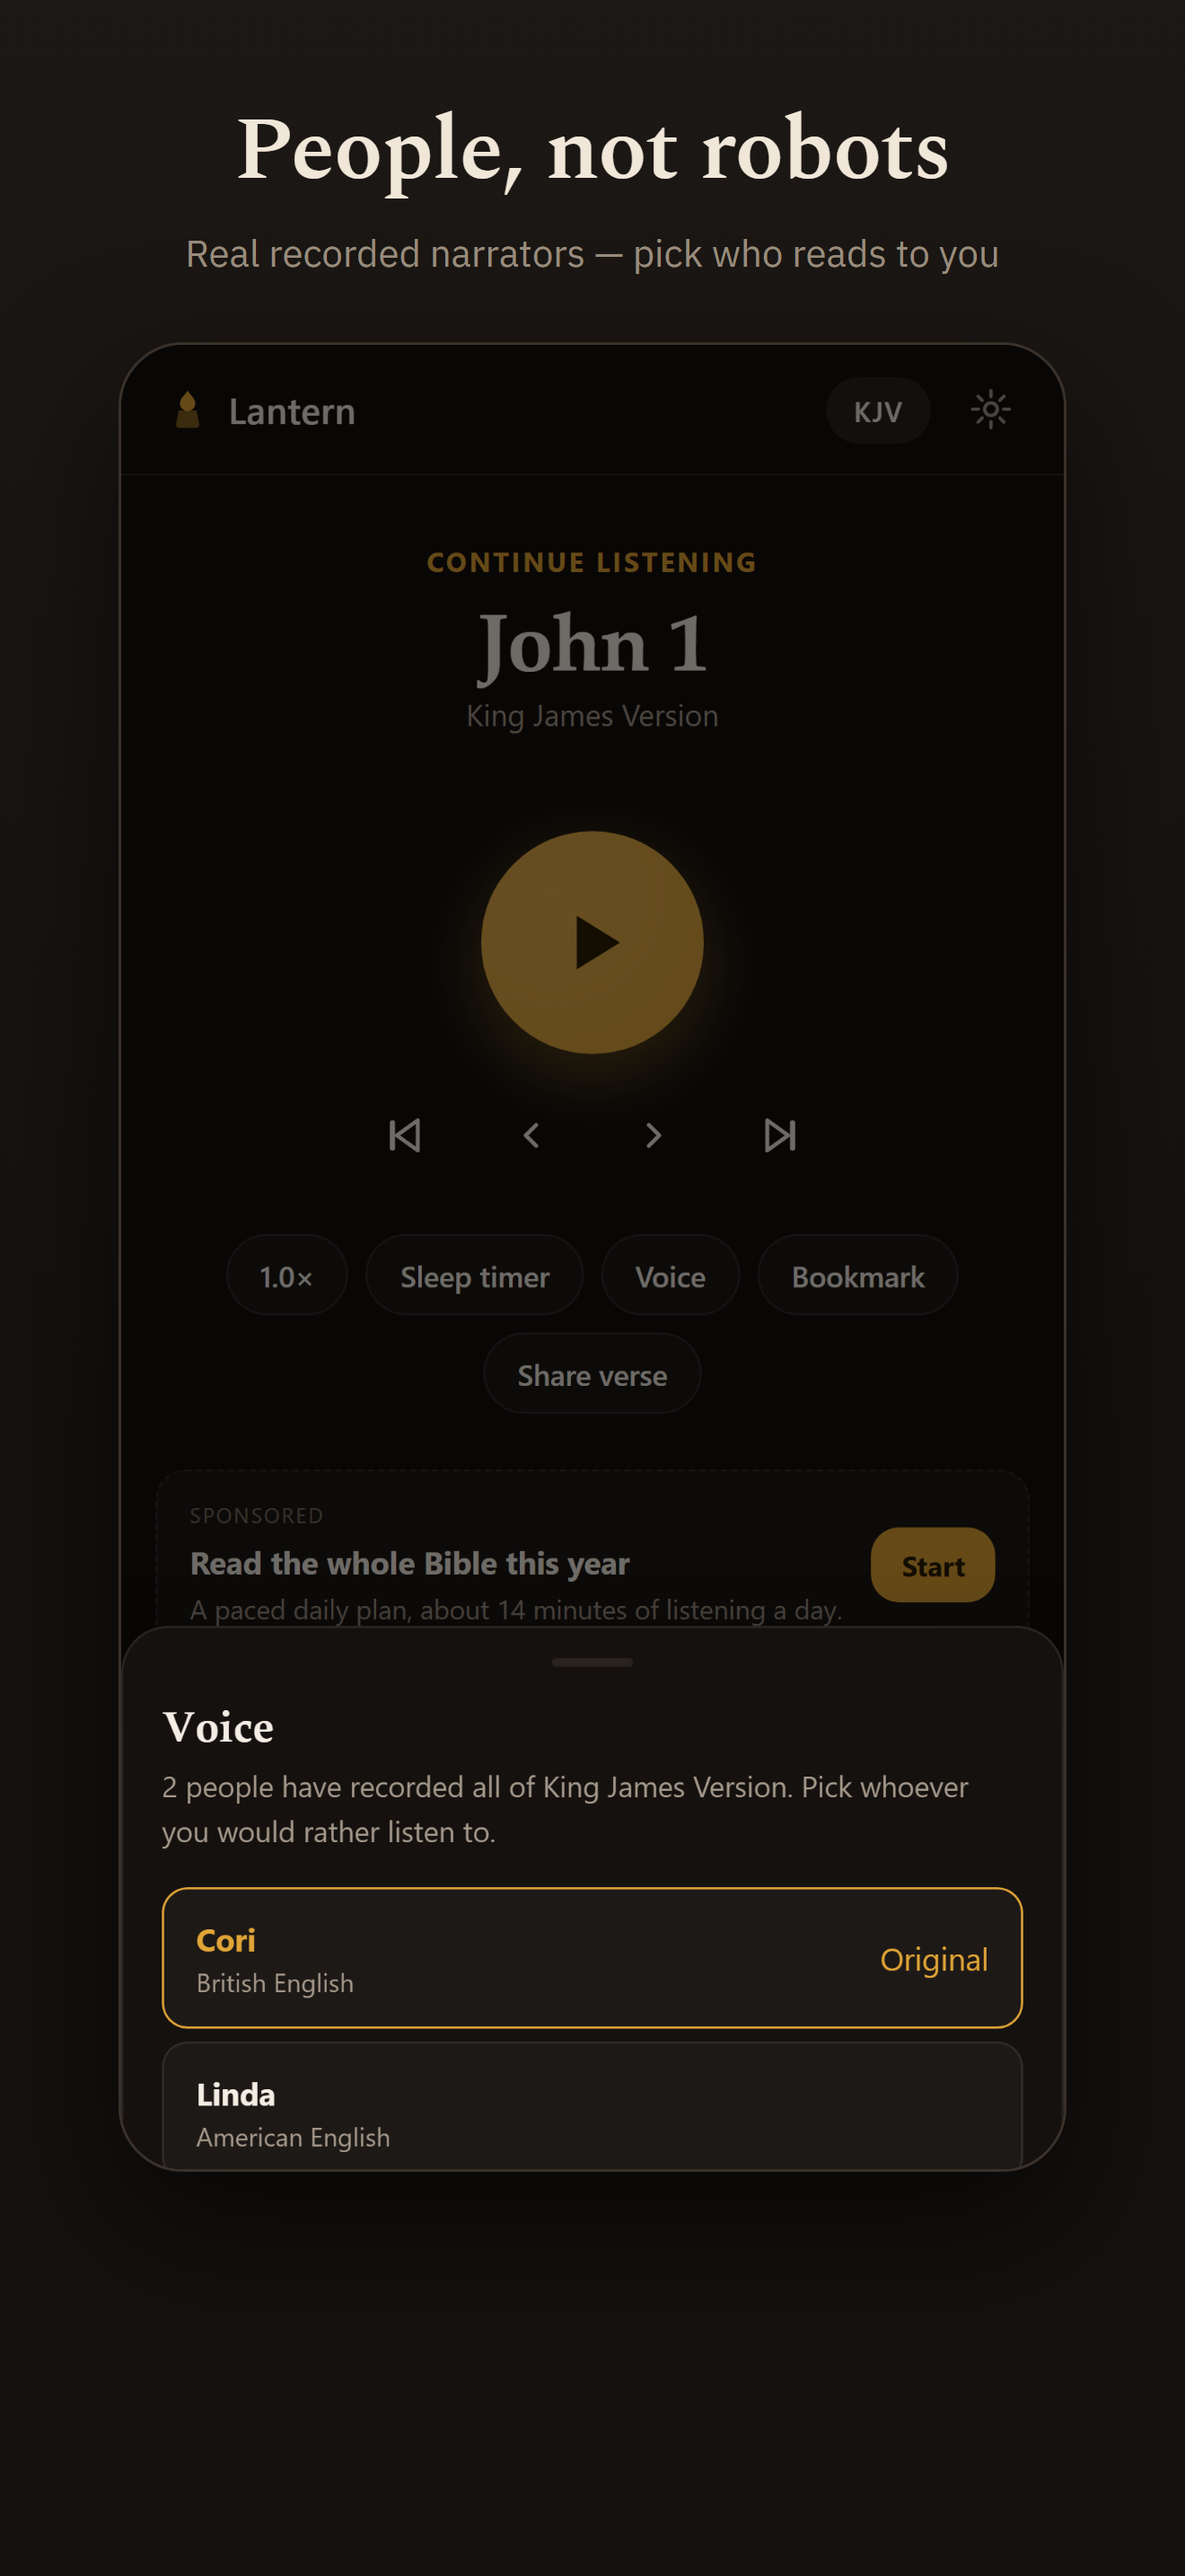
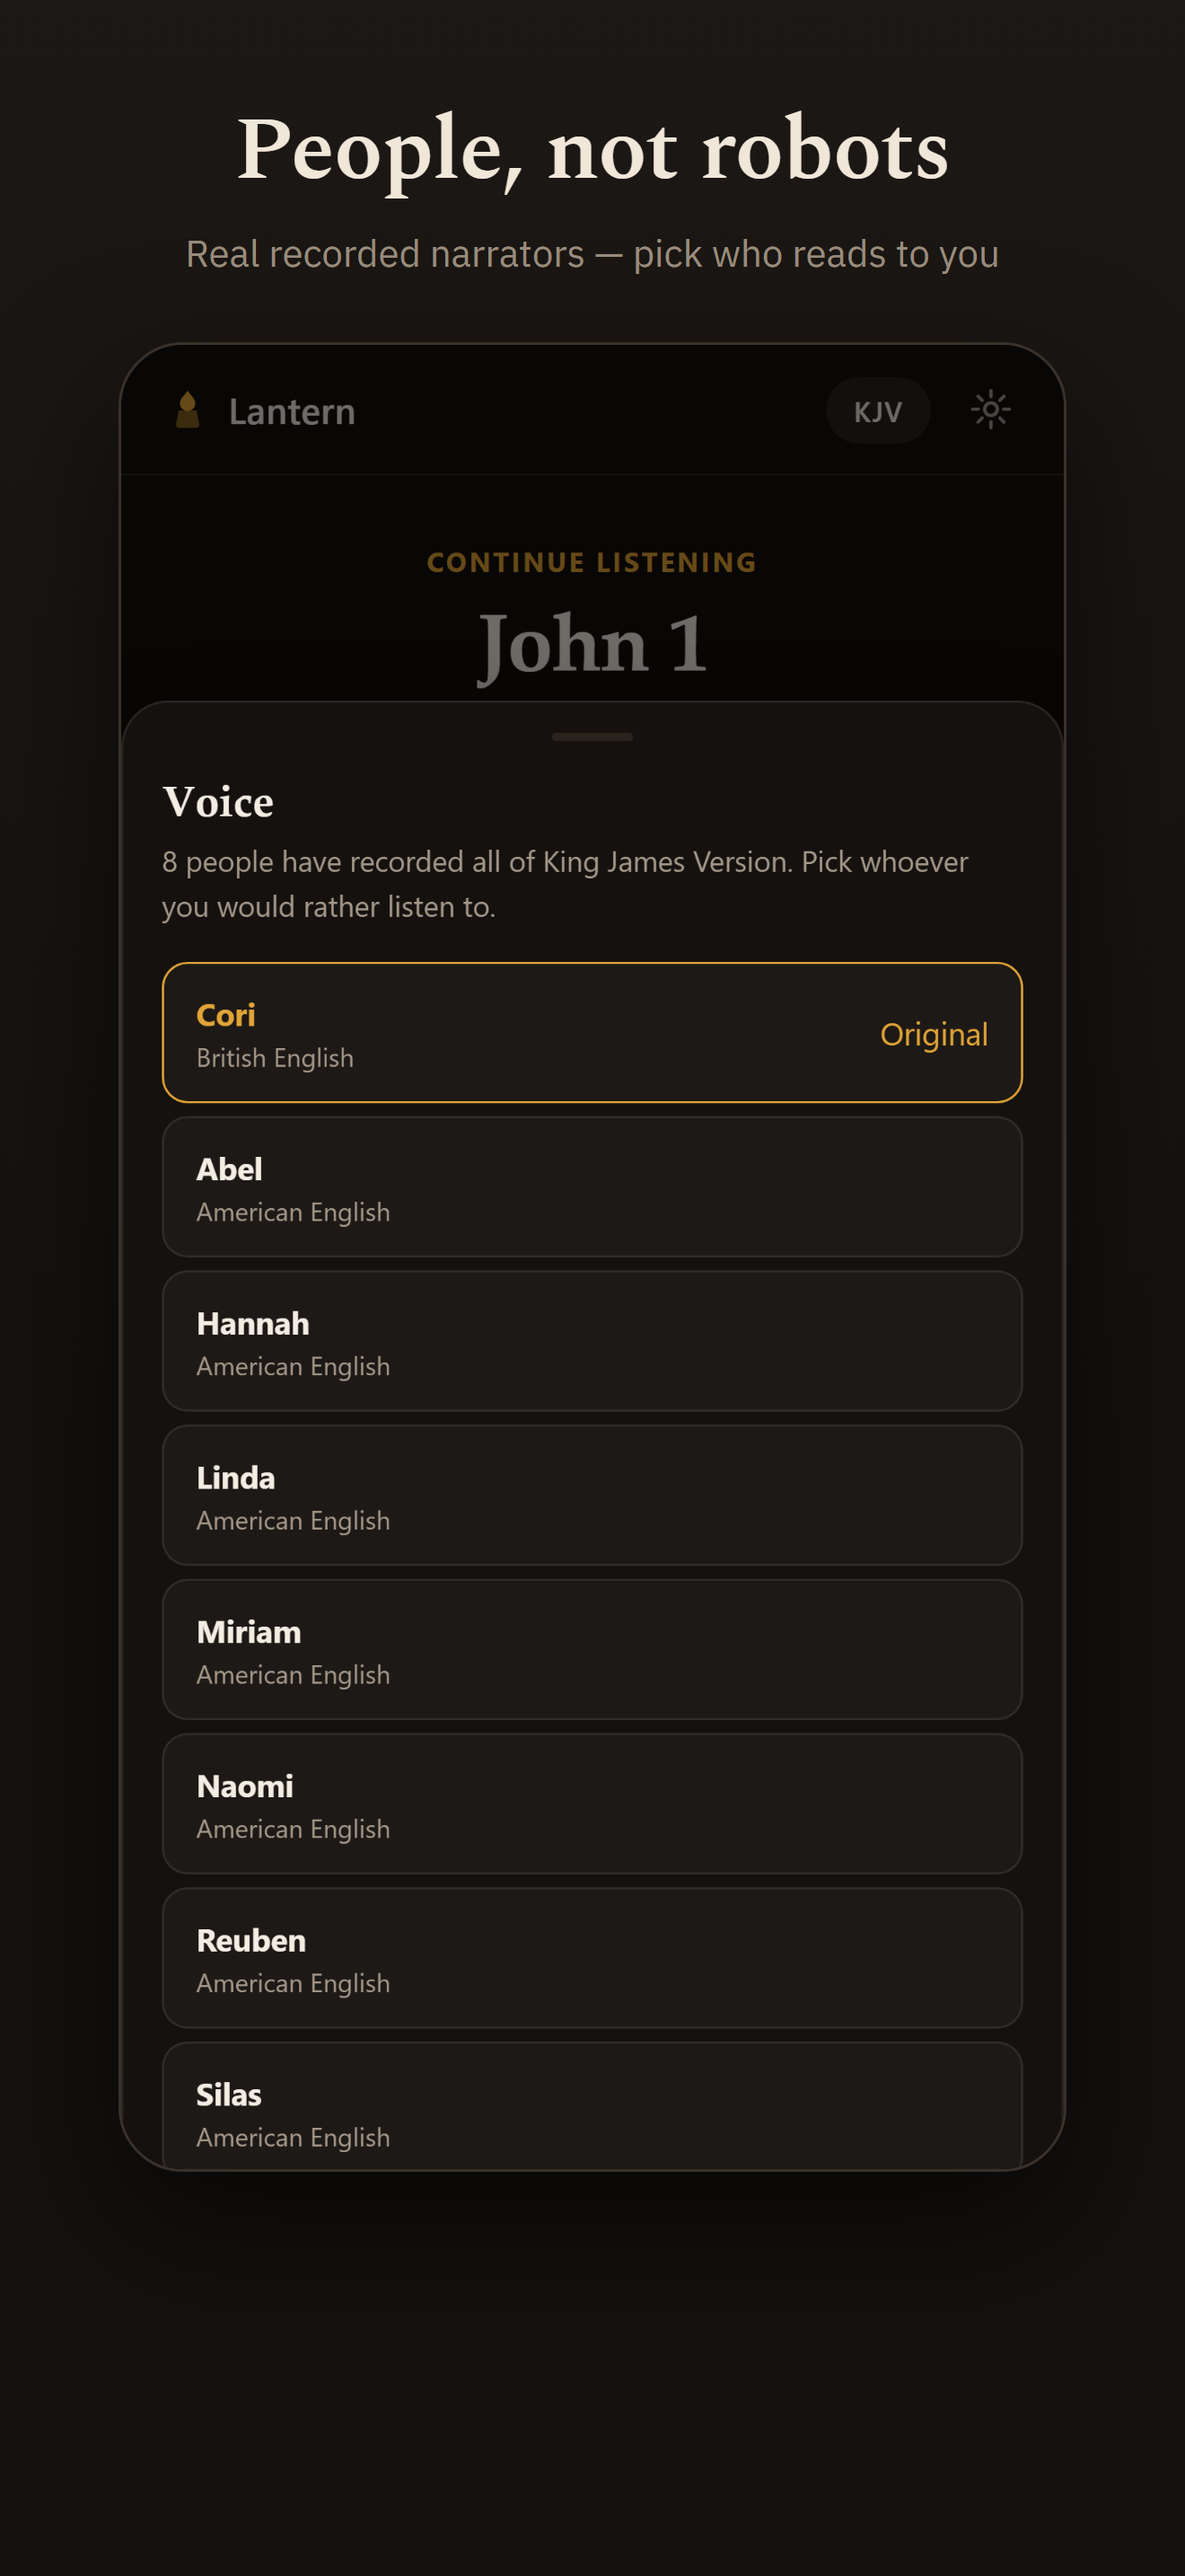
Take the price reference out of the screenshots
Apple rejected 1.0 (16) on 2026-09-04 under guideline 2.3.7, Accurate
Metadata. The cause was one screenshot caption: "Every chapter, free, with
nothing locked away". Screenshots are metadata, and Apple counts "free" the
same as a number - "references to free or discounted services are considered
a price reference and are not appropriate for app metadata". It now reads
"Genesis to Revelation, ready when you are".

The promotional text carried the identical violation and had not been flagged
yet: it opened "Free forever" and closed "no paywall". Promotional text is
metadata too, so that was the next rejection waiting to happen. Rewritten
without price language, 117 of 170 characters.

The description keeps its "No account. No subscription. No paywall." - Apple's
own rejection names the description as the place price information belongs.

Screenshots regenerated from the store build. They pick up the seven narrators
published today: the voice shot now reads "8 people have recorded all of King
James Version" and lists them, where it used to show three. All five are
1320x2868, RGB with no alpha.

The 320px bottom crop on the voice shot stays. The raw capture still ends on
"your device fills in with Google UK English Female" - the machine that takes
these runs Chrome, and naming a voice no iPhone has would be its own accuracy
problem.

Also rewrote the screenshot section of the listing, which still proposed a
[…]

diff --git a/build-store-frames.js b/build-store-frames.js
@@ -34,7 +34,13 @@ const FRAMES = [
   // it reads "Google UK English Female" - a voice no iPhone has. Cropping is
   // honest; naming an Apple voice the capture never produced would not be.
   { src: '2-voices.png',    head: 'People, not robots',          sub: 'Real recorded narrators — pick who reads to you', cropBottom: 320 },
-  { src: '3-library.png',   head: 'All 66 books',                sub: 'Every chapter, free, with nothing locked away' },
+  // No price language here, and none in any other caption. Apple rejected the
+  // 2026-09-02 submission under 2.3.7 for exactly this line, which used to read
+  // "Every chapter, free, with nothing locked away". Screenshots are metadata,
+  // and Apple counts "free" as a price reference just as much as a number -
+  // "references to free or discounted services are considered a price
+  // reference". The app description is the one place price may be discussed.
+  { src: '3-library.png',   head: 'All 66 books',                sub: 'Genesis to Revelation, ready when you are' },
   { src: '4-plans.png',     head: 'Read the whole Bible',        sub: 'Paced plans, about 14 minutes of listening a day' },
   { src: '5-spanish.png',   head: 'También en español',          sub: 'Reina-Valera, leída por un narrador de verdad' },
 ];

diff --git a/APP-STORE-LISTING.md b/APP-STORE-LISTING.md
@@ -34,12 +34,18 @@ kjv,king james,verse,devotional,reading plan,spanish,reina valera,christian,audi
 
 No spaces after commas: a space costs a character and buys nothing.
 
-## Promotional Text (170 max — 124 used)
+## Promotional Text (170 max — 117 used)
 
 Editable any time without submitting a new build, so use it for seasonal notes.
 
+**No price language.** Promotional text is metadata, and guideline 2.3.7 treats
+"free" as a price reference. This field used to open "Free forever" and end
+"no paywall"; the screenshots were rejected for the same thing on 2026-09-04,
+and this field would have been next. The description below may say it - Apple
+names the description as the place price belongs.
+
 ```
-Free forever. Press play and hear the Bible read aloud from wherever you left off - offline, with no account and no paywall.
+Press play and hear the Bible read aloud from wherever you left off - offline, with no account and nothing to set up.
 ```
 
 ## Description
@@ -204,11 +210,22 @@ are required.
 > Apple silently rejects screenshots carrying an alpha channel. Save as 24-bit
 > RGB PNG, or JPEG.
 
-Suggested five, in order — the first two are what most people actually see in
-search results, so they carry the pitch:
+> **Never put price language in a caption.** Screenshots are metadata, and
+> guideline 2.3.7 counts "free" as a price reference exactly like a number:
+> *"references to free or discounted services are considered a price reference."*
+> The 2026-09-02 submission was rejected on 2026-09-04 for one caption reading
+> "Every chapter, free, with nothing locked away". Say it in the description
+> instead - Apple names that as the place price belongs.
+
+The captions live in `FRAMES` in `build-store-frames.js`, which is what actually
+renders them. This list is only a description of that set:
 
 1. Listen view, mid-playback — "The Bible, read aloud"
-2. The free promise — "No account. No subscription. Ever."
-3. Library / book grid — "All 66 books, offline"
-4. Voice and tone settings — "A voice that is easy to listen to"
-5. Sleep timer — "Falls asleep when you do"
+2. Narrator picker — "People, not robots"
+3. Library / book grid — "All 66 books"
+4. Reading plans — "Read the whole Bible"
+5. Spanish — "También en español"
+
+An earlier draft of this list proposed a second shot built on the free promise
+("No account. No subscription. Ever."). It was never rendered, and it must not
+be: that is the rejection above, written down as a plan.
